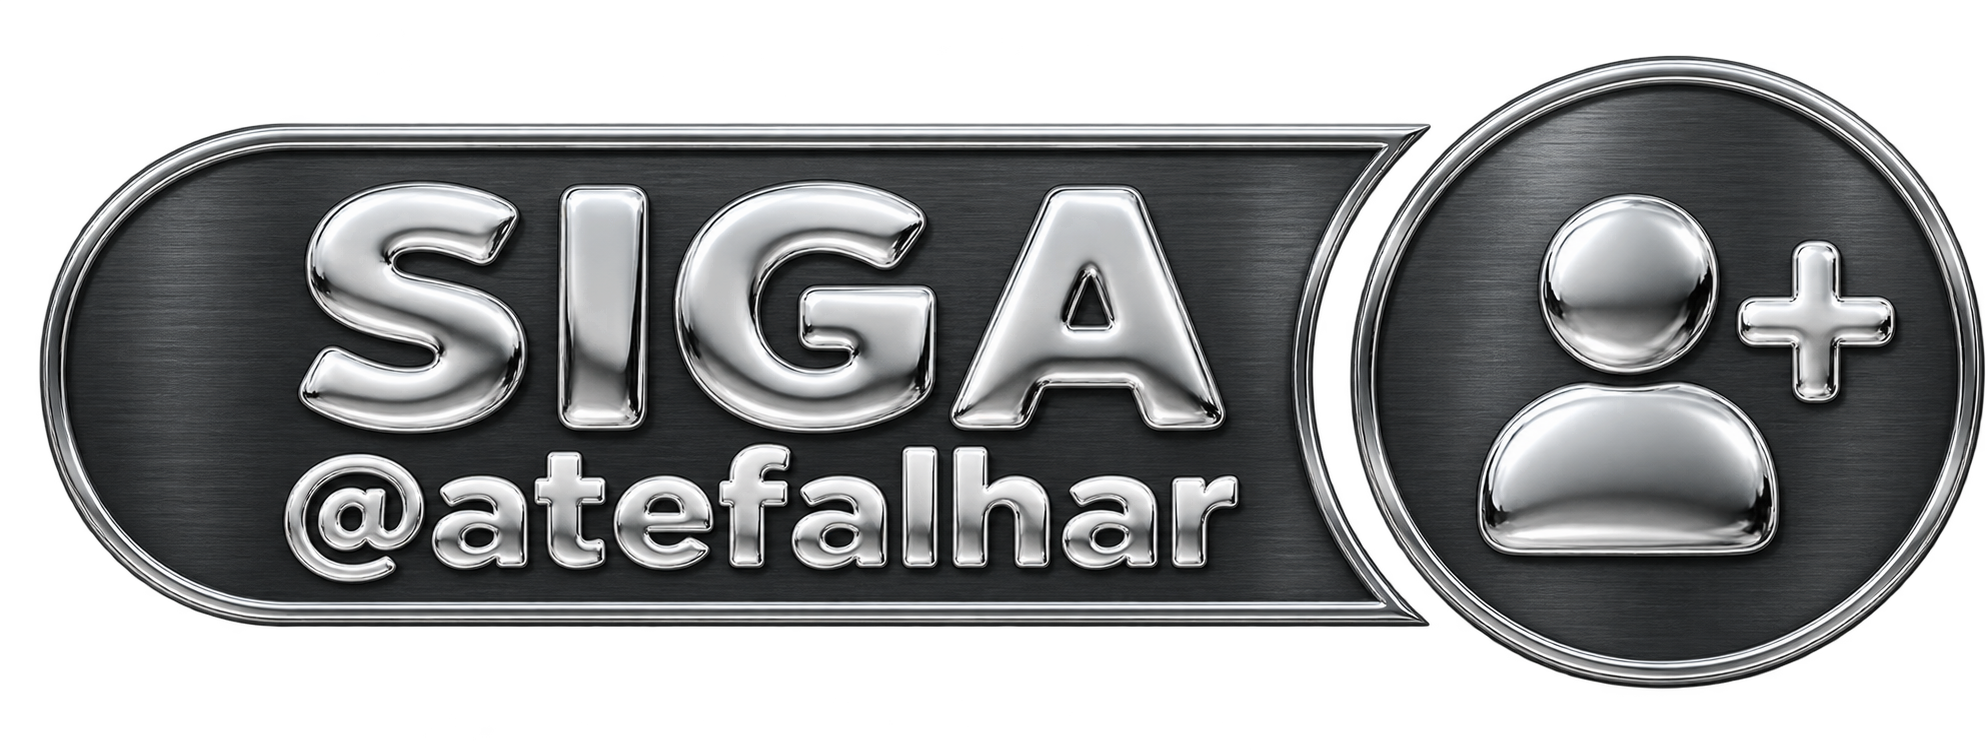
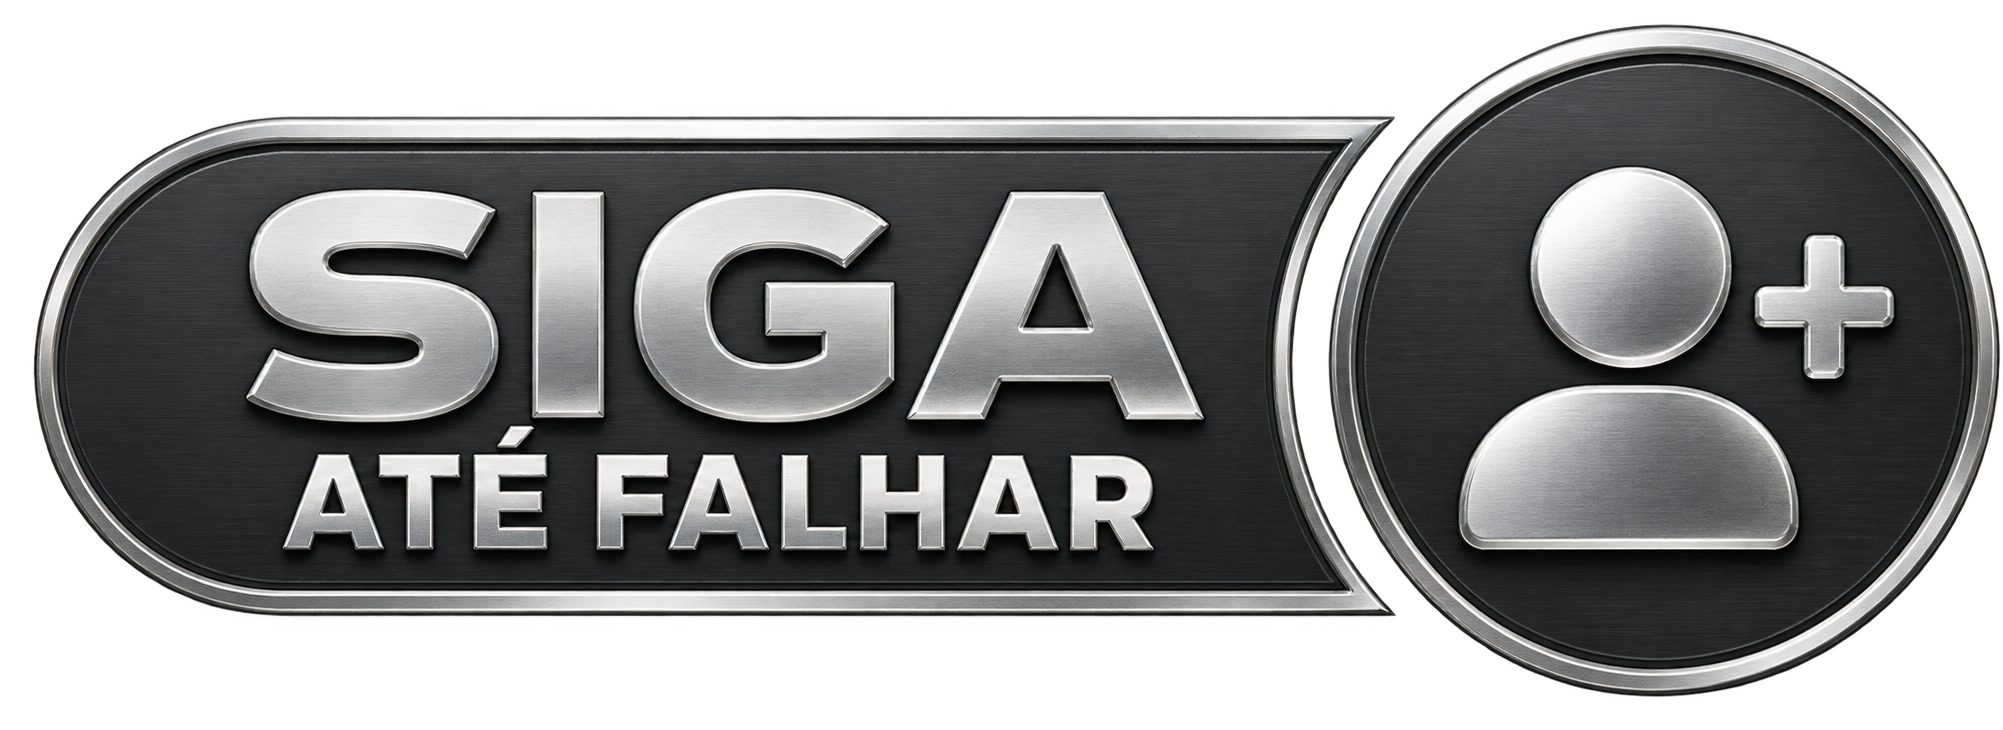
Selos de seis canais, e o nome do Fatura Chora em aberto
Todos os seis renderizam e os mp4 abrem. Falta so' o Achadinho Chef
(cozinha.importada).

⚠ TRES GRAFIAS DO MESMO CANAL no mesmo dia: a arte diz PAGO MENOS, o
Bryan escreveu "Pague menos", e a pagina e' pagomenos.pages.dev. Isto
tem de ser decidido ANTES de a cascata ir ao ar — selo e' imagem, nao
se corrige por codigo.

O nome_buffer continua fatura.chora, como sempre: ele nao muda quando o
canal muda de nome. Por isso o arquivo se chama siga_fatura.chora.png
mesmo dizendo outra coisa na arte.

diff --git a/IDENTIDADE_DOS_CANAIS.md b/IDENTIDADE_DOS_CANAIS.md
@@ -19,6 +19,30 @@ contas do próprio aplicativo, que é a única fonte que não depende de memóri
 | `fatura.chora` | `@fatura.chora` | carrinho de compras cromado | `#C1841A` | ⚠ **pode mudar** |
 | `achadinhos.instantaneos` | `@achadinhos.instantaneos` | lupa cromada sobre ouro | `#7A3FF2` | ⚠ **pode mudar** |
 
+
+## ⚠ O FATURA CHORA VAI VIRAR "PAGO/PAGUE MENOS"
+
+Decisão do Bryan em 13/09/2026: *"Pague menos é um canal que vai vir no lugar
+de Fatura Chora"*.
+
+⚠ **E O NOME AINDA NÃO ESTÁ FECHADO.** Três grafias em circulação no mesmo
+dia:
+
+| onde | como está |
+|---|---|
+| o selo de CTA (arte, `engine/selos/siga_fatura.chora.png`) | **PAGO MENOS** |
+| a mensagem do Bryan | **Pague menos** |
+| o endereço da contra-capa | `pagomenos.pages.dev` |
+
+⭐ **Isto tem de ser decidido antes de a cascata ir ao ar.** O selo é IMAGEM:
+não dá para corrigir por código, só gerando a arte de novo. Se o canal se
+chamar "Pague Menos" e o selo disser "Pago Menos", o erro vai em todo vídeo.
+
+⚠ **E o `nome_buffer` continua `fatura.chora`**, como sempre — ele não muda
+quando o canal muda de nome, e é por isso que o arquivo do selo se chama
+`siga_fatura.chora.png` mesmo dizendo outra coisa na arte. Mesma regra do
+`cozinha.importada`, que vira Achadinho Chef em 26/09 sem trocar de chave.
+
 ## O @ NO INSTAGRAM — e ele NAO e' o mesmo do TikTok
 
 Registrado em 13/09/2026, de print dos perfis. O Bryan esta' abrindo as contas
